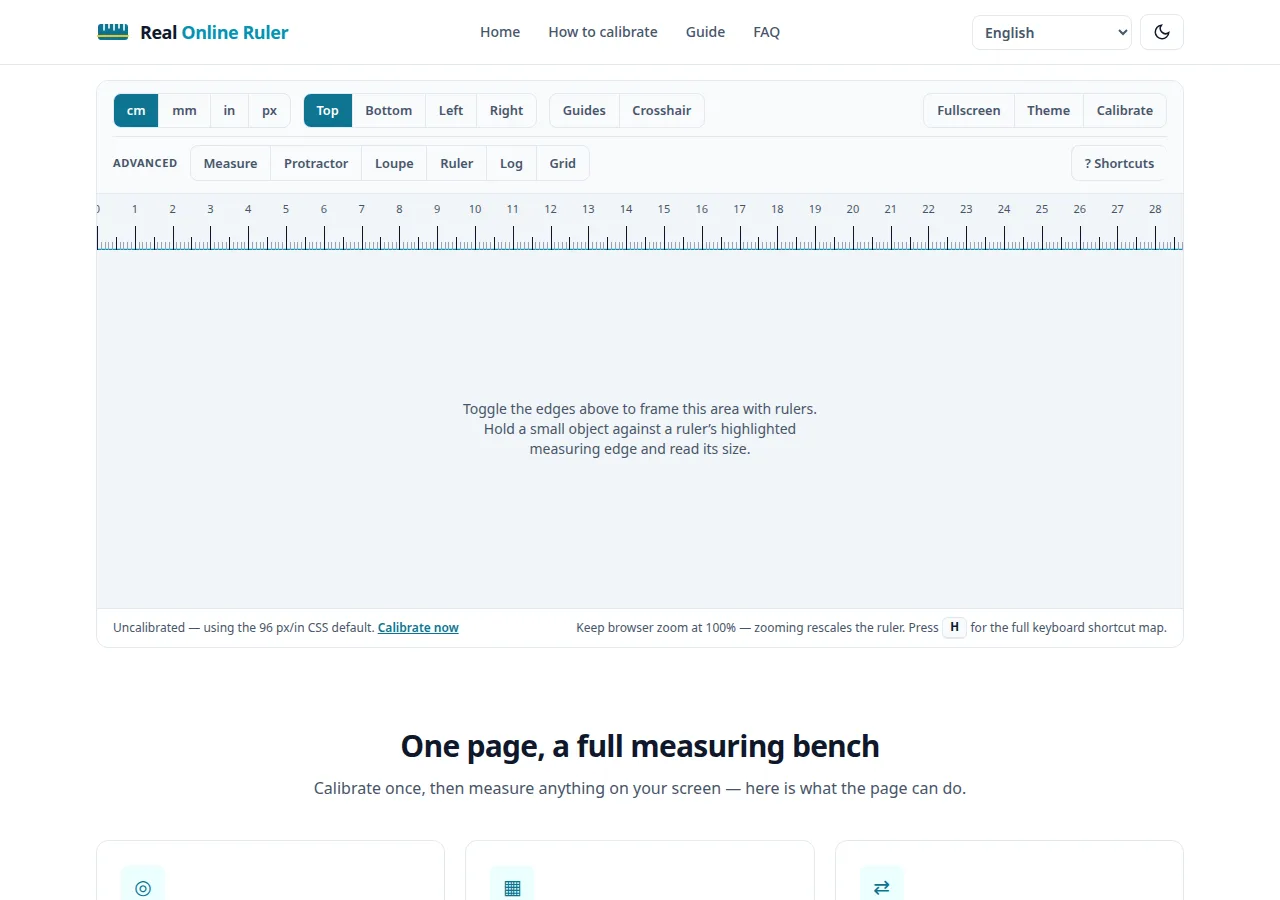
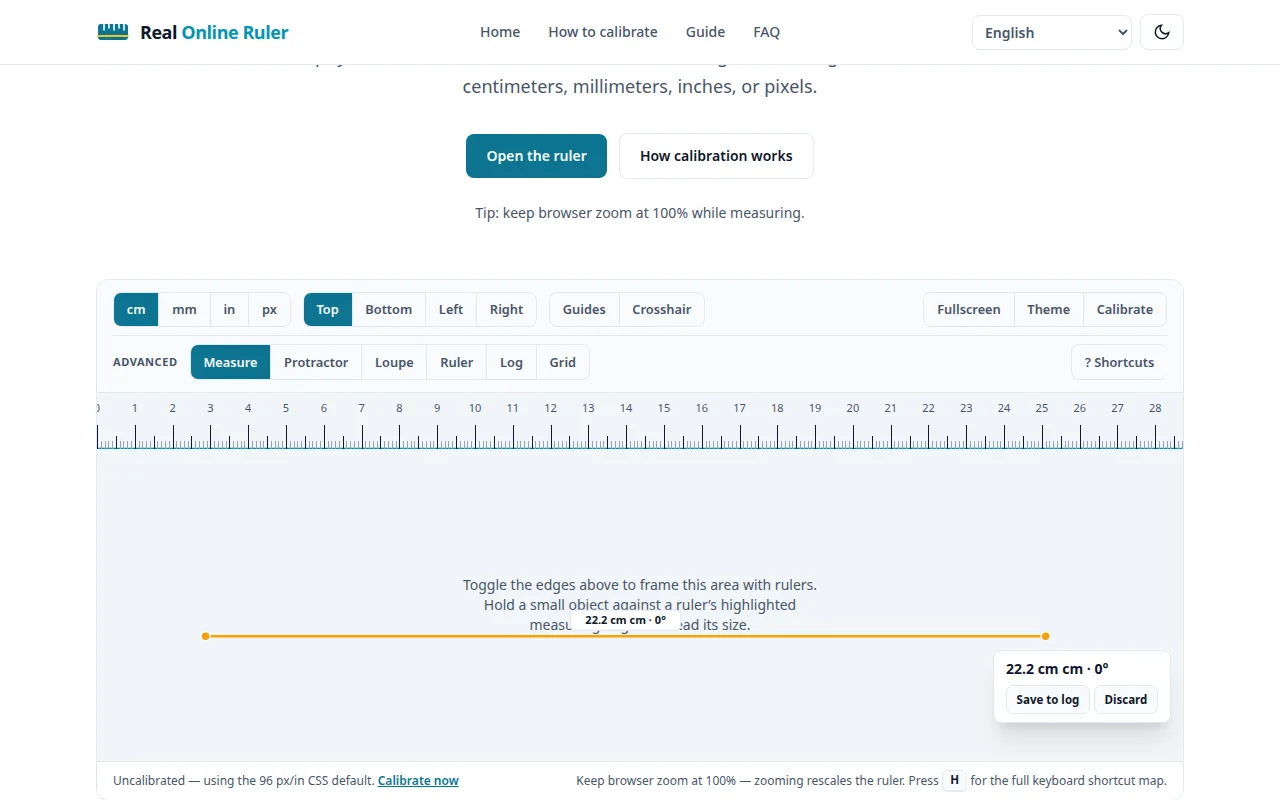
Fix duplicate article screenshots: unique per-article images

diff --git a/scripts/regen-article-screenshots.py b/scripts/regen-article-screenshots.py
@@ -1,0 +1,145 @@
+#!/usr/bin/env python3
+"""Regenerate unique per-article screenshots for Real Online Ruler how-to guides.
+
+Each article gets a REAL screenshot of https://realonlineruler.online/ with:
+  - the unit tab matching the article's alt text (in / cm / mm)
+  - the Measure tool active with a line drawn at a topic-relevant length,
+    so no two articles share the same image.
+
+Usage: python3 scripts/regen-article-screenshots.py [--only slug1,slug2]
+Outputs: public/images/articles/<slug>/{desktop,mobile}.webp
+"""
+import os
+import sys
+import time
+from playwright.sync_api import sync_playwright
+
+SITE = "https://realonlineruler.online/"
+CHROME_BIN = "/opt/meta-chromium/chrome"
+CHAIN_PROXY = "http://127.0.0.1:18080"
+
+
+def ensure_chain_proxy():
+    """Start ~/workspace/bin/chain-proxy.py if it isn't already listening."""
+    import socket
+    import subprocess
+
+    try:
+        s = socket.create_connection(("127.0.0.1", 18080), timeout=2)
+        s.close()
+        return
+    except OSError:
+        pass
+    subprocess.Popen(
+        ["python3", os.path.expanduser("~/workspace/bin/chain-proxy.py")],
+        stdout=subprocess.DEVNULL,
+        stderr=subprocess.DEVNULL,
+        start_new_session=True,
+    )
+    for _ in range(30):
+        try:
+            s = socket.create_connection(("127.0.0.1", 18080), timeout=2)
+            s.close()
+            return
+        except OSError:
+            time.sleep(1)
+    raise RuntimeError("chain proxy did not start")
+
+# (slug, unit, desktop line px, mobile line px) — every length is distinct so no
+# two articles share an image. Popup readouts show the true converted value.
+ARTICLES = [
+    ("how-big-is-4-inches", "in", 384, 192),
+    ("what-does-6-inches-look-like", "in", 576, 280),
+    ("how-big-is-55-inch-tv", "in", 860, 250),
+    ("how-to-measure-necklace-length", "in", 700, 230),
+    ("how-to-measure-picture-frame", "in", 800, 270),
+    ("how-to-measure-waist-size", "in", 640, 210),
+    ("how-to-measure-inseam", "in", 500, 170),
+    ("how-to-measure-foot-size", "cm", 756, 275),
+    ("how-to-measure-hand-for-gloves", "cm", 680, 240),
+    ("how-to-measure-head-size", "cm", 840, 200),
+    ("how-to-measure-screen-size", "cm", 600, 260),
+    ("how-to-measure-box-for-shipping", "cm", 520, 180),
+    ("how-to-find-glasses-frame-size", "mm", 529, 189),
+    ("how-to-identify-screw-size", "mm", 200, 120),
+    ("how-to-measure-wrist-size", "mm", 643, 227),
+]
+
+PX_PER_IN = 96.0  # site default when uncalibrated (matches existing screenshots)
+UNIT_PER_IN = {"in": 1.0, "cm": 2.54, "mm": 25.4}
+
+VIEWPORTS = {
+    "desktop": {"width": 1280, "height": 800, "is_mobile": False},
+    "mobile": {"width": 390, "height": 844, "is_mobile": True},
+}
+
+
+def value_to_px(value, unit):
+    return value * PX_PER_IN / UNIT_PER_IN[unit]
+
+
+def capture(page, slug, unit, length_px, name, idx):
+    page.goto(SITE, wait_until="networkidle")
+    page.wait_for_timeout(800)
+    page.evaluate("window.scrollTo(0, 0)")
+    # Select the unit tab in the main toolbar (scoped to avoid duplicates)
+    page.click(f'#ruler-app-root button[data-unit="{unit}"]')
+    page.wait_for_timeout(300)
+    # Activate the Measure tool
+    page.click("#tool-measure")
+    page.wait_for_timeout(300)
+    # Bring the ruler tool into view so the drag lands on the workspace
+    page.locator("#ruler-app-root").scroll_into_view_if_needed()
+    page.wait_for_timeout(400)
+    # Draw a measurement line across the workspace. Start x and y vary slightly
+    # per article so compositions differ even at similar lengths.
+    box = page.locator("#ruler-workspace").bounding_box()
+    if not box or box["y"] < 0 or box["y"] > 1200:
+        raise RuntimeError(f"#ruler-workspace not in view for {slug}/{name}: {box}")
+    length = min(length_px, box["width"] * 0.8)
+    x0 = box["x"] + box["width"] * (0.10 + (idx % 3) * 0.03)
+    y0 = box["y"] + box["height"] * (0.40 + (idx % 5) * 0.05)
+    page.mouse.move(x0, y0)
+    page.mouse.down()
+    page.mouse.move(x0 + length, y0, steps=25)
+    page.mouse.up()
+    page.wait_for_timeout(600)
+    page.locator("#ruler-app-root").scroll_into_view_if_needed()
+    page.wait_for_timeout(300)
+    out = f"public/images/articles/{slug}/{name}.webp"
+    page.screenshot(path=out, type="webp", quality=82)
+    print(f"  wrote {out} ({unit}, {length:.0f}px line)", flush=True)
+
+
+def main():
+    only = None
+    for arg in sys.argv[1:]:
+        if arg.startswith("--only="):
+            only = arg.split("=", 1)[1].split(",")
+    targets = [a for a in ARTICLES if not only or a[0] in only]
+    ensure_chain_proxy()
+    with sync_playwright() as p:
+        browser = p.chromium.launch(
+            executable_path=CHROME_BIN,
+            proxy={"server": CHAIN_PROXY},
+            args=["--no-sandbox"],
+        )
+        for i, (slug, unit, d_px, m_px) in enumerate(targets):
+            print(f"{slug}:")
+            for name, vp in VIEWPORTS.items():
+                ctx = browser.new_context(
+                    viewport={"width": vp["width"], "height": vp["height"]},
+                    is_mobile=vp["is_mobile"],
+                    device_scale_factor=2 if vp["is_mobile"] else 1,
+                )
+                page = ctx.new_page()
+                try:
+                    capture(page, slug, unit, d_px if name == "desktop" else m_px, name, i)
+                finally:
+                    ctx.close()
+        browser.close()
+    print("done")
+
+
+if __name__ == "__main__":
+    main()
